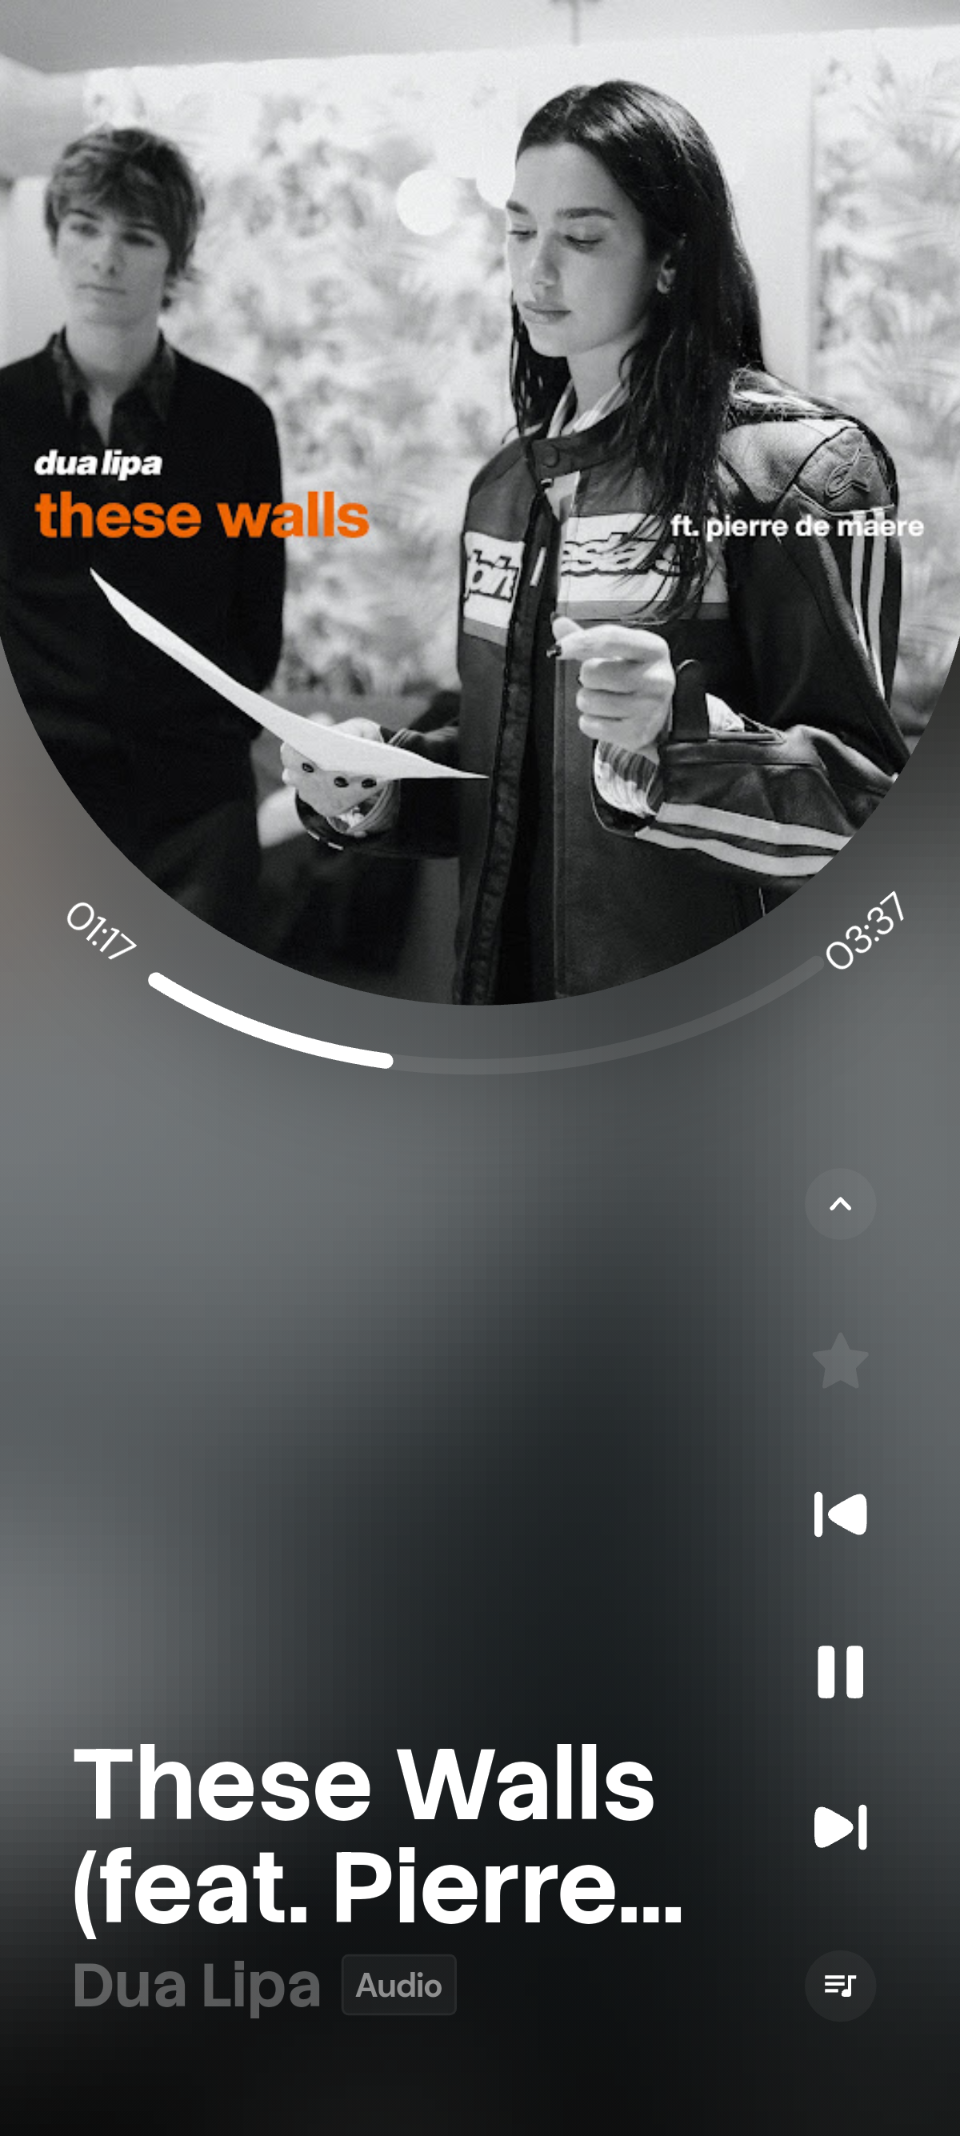
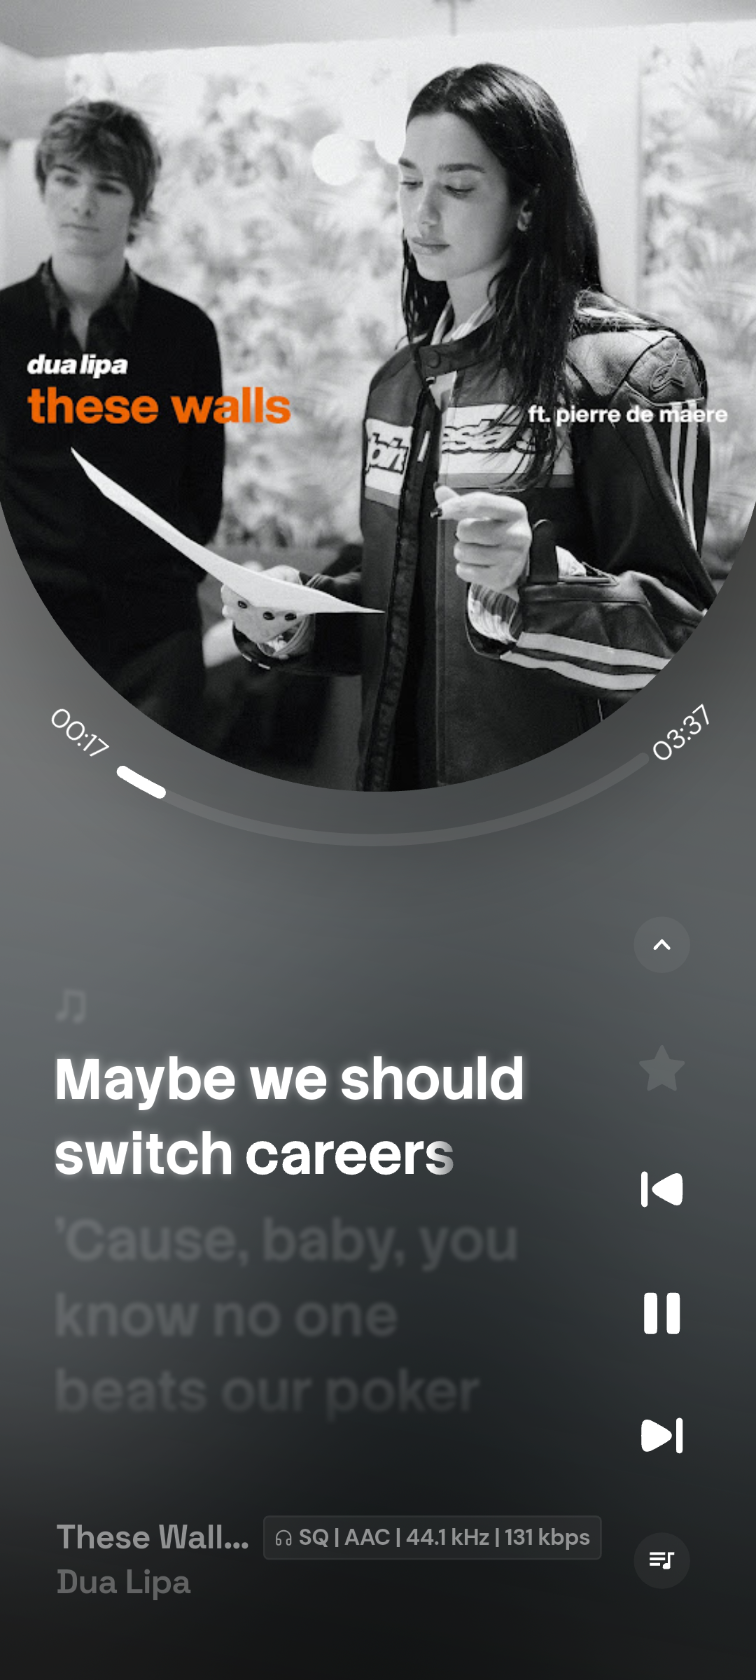
Lyrics: Arc elapsed time stays fixed at the left end, mirroring the total

diff --git a/lib/ui/android/player/expanded/styled_player_layout.dart b/lib/ui/android/player/expanded/styled_player_layout.dart
@@ -2638,34 +2638,6 @@ class _LyricsArcControlsState extends ConsumerState<LyricsArcControls>
   // Apex of the arch in the box, and the box height (design units).
   static const double _apexY = 8, _boxH = 104;
 
-  /// The elapsed time, riding just inside the arch at the progress head
-  /// (the side the total time sits on) and tilted along the curve.
-  Widget _ridingTime(String text, Offset center, double s, double deg) {
-    final double r = deg * math.pi / 180;
-    final double rx = _rx * s, ry = _ry * s;
-    final Offset head = center + Offset(rx * math.cos(r), ry * math.sin(r));
-    // Outward normal of the ellipse at the head.
-    final Offset n = Offset(math.cos(r) / rx, math.sin(r) / ry);
-    final Offset normal = n / n.distance;
-    final Offset at = head - normal * (16 * s);
-    final double tilt = math.atan2(ry * math.cos(r), -rx * math.sin(r));
-    return Positioned(
-      left: at.dx - 30 * s,
-      top: at.dy - 12 * s,
-      width: 60 * s,
-      height: 24 * s,
-      child: IgnorePointer(
-        child: Transform.rotate(
-          angle: tilt,
-          child: OverflowBox(
-            maxWidth: double.infinity,
-            child: Center(child: _timeText(text, s)),
-          ),
-        ),
-      ),
-    );
-  }
-
   @override
   Widget build(BuildContext context) {
     return LayoutBuilder(
@@ -2759,12 +2731,7 @@ class _LyricsArcControlsState extends ConsumerState<LyricsArcControls>
                   ),
                 ),
               ),
-              _ridingTime(
-                UiUtils.formatPlaybackDuration(shown),
-                center,
-                s,
-                _startDeg + (_endDeg - _startDeg) * f,
-              ),
+              label(UiUtils.formatPlaybackDuration(shown), 41.6, -40.05),
               label(UiUtils.formatPlaybackDuration(duration), 362.9, 40.6),
               button(
                 _cxD - 66,

diff --git a/media/release-notes/3.1.0.md b/media/release-notes/3.1.0.md
@@ -26,7 +26,7 @@ Linux and Windows builds are in the assets below.
 ## What's New
 
 ### New
-- **New Lyrics screen** that follows your Now Playing style: Arc gets an arched seek bar with the controls inside it and the time riding along, Linear and Card get their seek row, Classic keeps its wavy bar
+- **New Lyrics screen** that follows your Now Playing style: Arc gets an arched seek bar with the controls inside it, Linear and Card get their seek row, Classic keeps its wavy bar
 - The lyrics top bar (close, lyrics source, menu) hides when you leave the screen alone; the song moves up and a favorite button takes the menu's place
 - New lyrics menu, tips guide and share sheet
 - **New Equalizer**: All songs / This song switcher, presets as chips, an 18-band card with a Reset button, and every effect in one list that opens its settings when you turn it on
